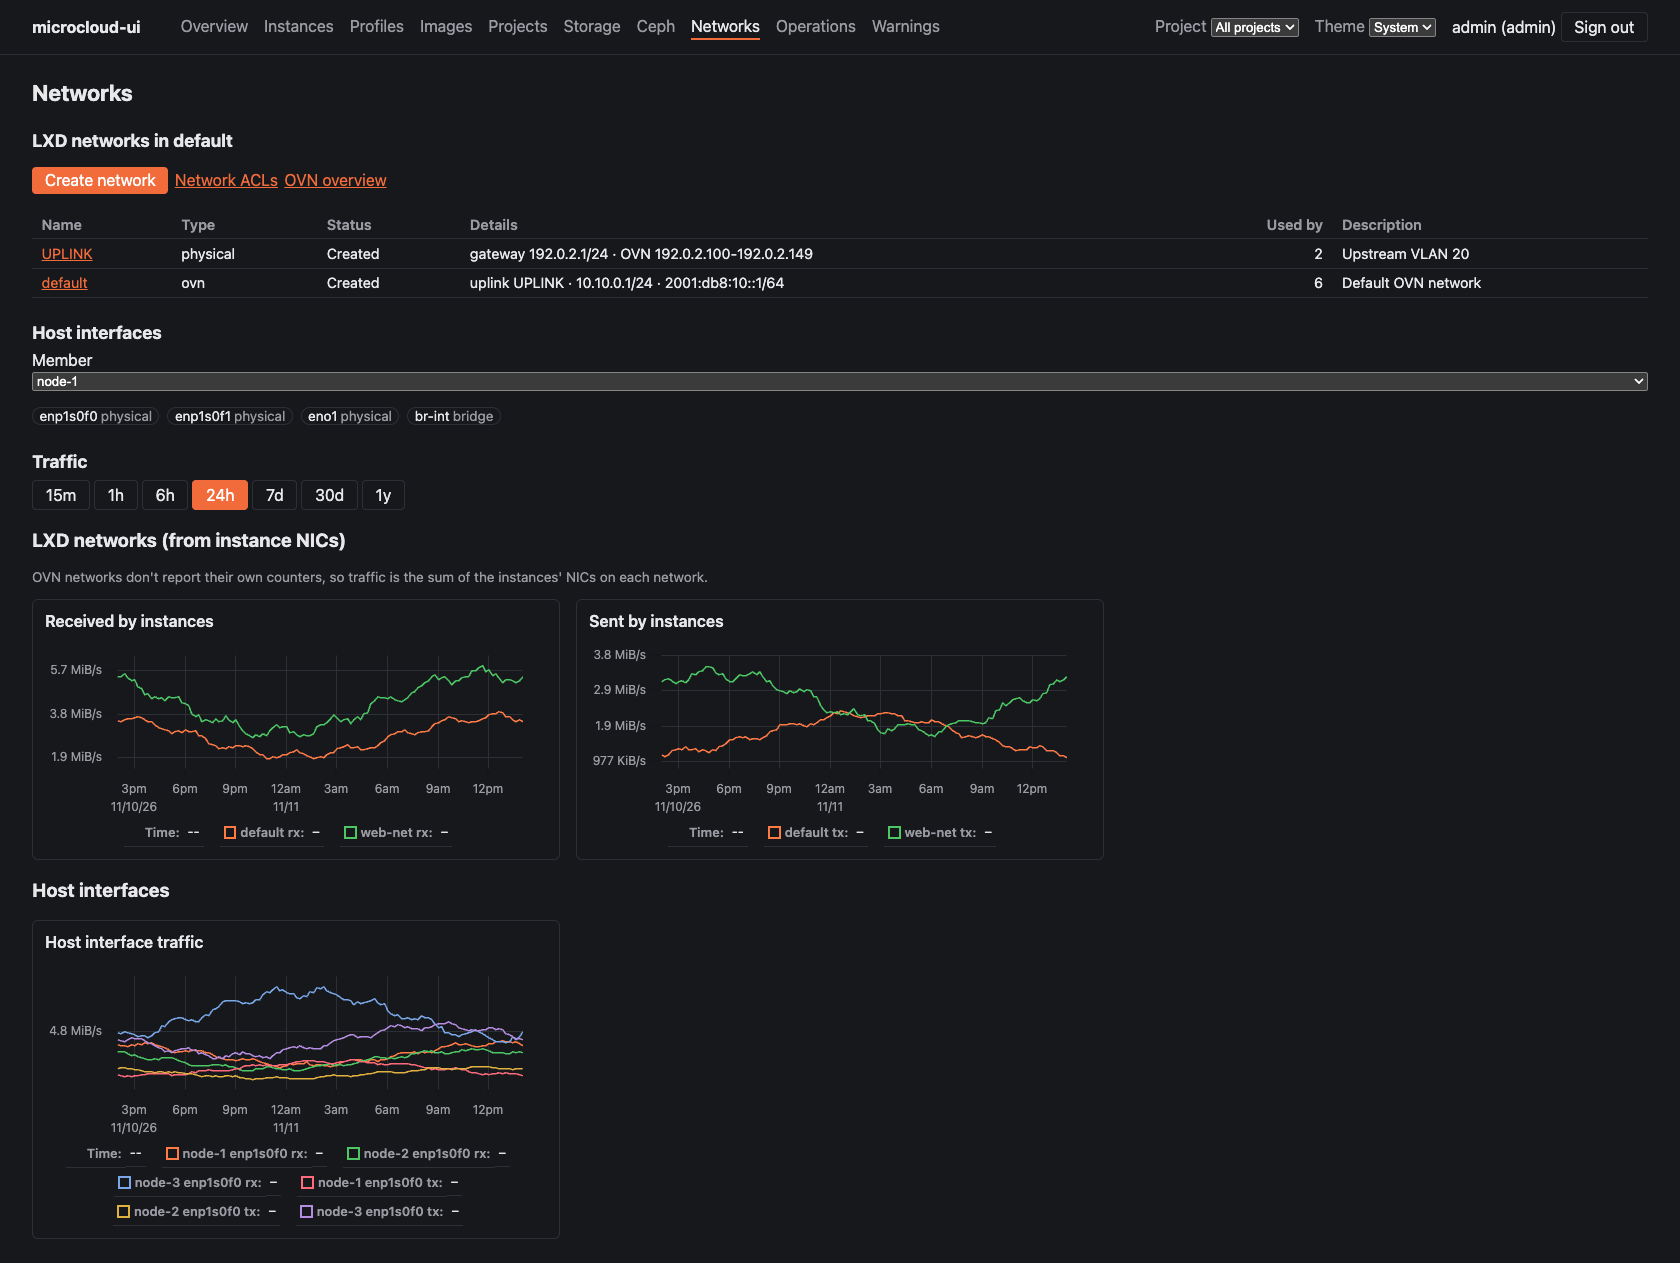
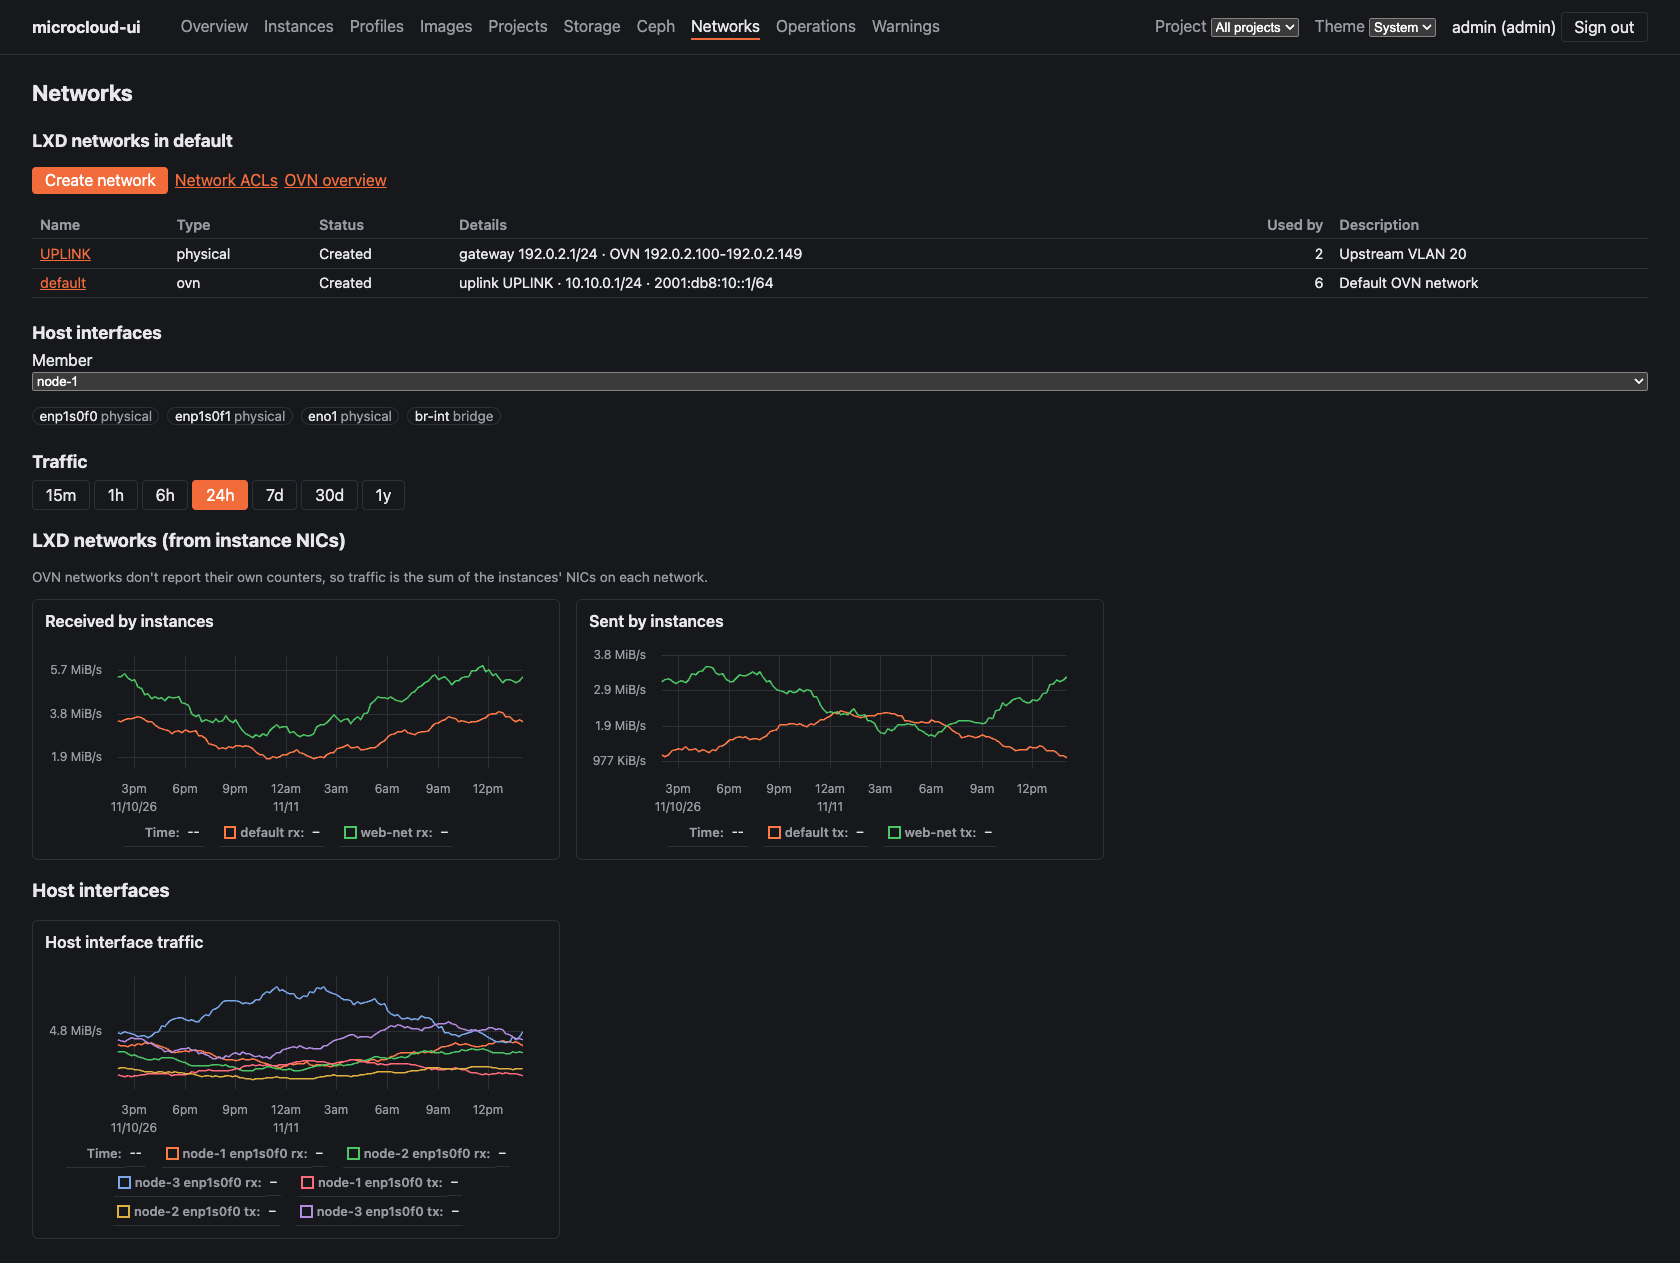
Hosts table fits a 1280px window: secondary details on their own line, shared units written once (formatPair), Net rx / tx, 3rem gauges and 0.5rem cell padding in tables; screenshots regenerated (D70)

diff --git a/frontend/src/pages/hosts.test.tsx b/frontend/src/pages/hosts.test.tsx
@@ -81,28 +81,30 @@ describe("HostsSection", () => {
     renderAt(<HostsSection />);
     const row = (await screen.findByRole("link", { name: "gw-1" })).closest("tr")!;
     expect(within(row).getByRole("meter", { name: "gw-1 CPU" })).toHaveAttribute("value", "42");
-    expect(row).toHaveTextContent("42.0% (iowait 7.0%)");
-    expect(row).toHaveTextContent("8.0 GiB / 32.0 GiB");
+    expect(row).toHaveTextContent("42.0%");
+    expect(within(row).getByText("iowait 7.0%")).toHaveClass("sub"); // its own line
+    expect(row).toHaveTextContent("8.0 / 32.0 GiB");
     expect(row).not.toHaveTextContent("≈");
-    expect(row).toHaveTextContent("1.0 GiB / 4.0 GiB");
+    expect(row).toHaveTextContent("1.0 / 4.0 GiB");
     expect(within(row).getByRole("meter", { name: "gw-1 root filesystem" })).toHaveAttribute("value", "90");
-    expect(row).toHaveTextContent("sda 55.0% busy");
+    expect(within(row).getByText("sda 55.0% busy")).toHaveClass("sub");
     expect(row).toHaveTextContent("4 / 5");
     expect(row).toHaveTextContent("1.50 CPUs, 6.0 GiB");
-    expect(row).toHaveTextContent("12 vCPU / 8 (1.5×), 20.0 GiB / 32.0 GiB + 2 unlimited");
-    expect(row).toHaveTextContent("1.0 KiB/s / 2.0 KiB/s");
+    expect(row).toHaveTextContent("12 vCPU / 8 (1.5×), 20.0 / 32.0 GiB");
+    expect(within(row).getByRole("button", { name: "2 unlimited" }).closest(".sub")).toHaveTextContent("+ 2 unlimited");
+    expect(row).toHaveTextContent("1.0 / 2.0 KiB/s");
 
     const gw2 = screen.getByRole("link", { name: "gw-2" }).closest("tr")!;
     expect(within(gw2).getByRole("meter", { name: "gw-2 load per CPU" })).toHaveAttribute("value", "25");
     expect(gw2).toHaveTextContent("load 2 / 8");
-    expect(gw2).toHaveTextContent("≈22.0 GiB / 32.0 GiB"); // 32 - 8 free - 2 buffers
+    expect(gw2).toHaveTextContent("≈22.0 / 32.0 GiB"); // 32 - 8 free - 2 buffers
     expect(gw2).toHaveTextContent("none"); // no swap
     expect(gw2).toHaveTextContent("4 vCPU / 8,");
     expect(gw2).not.toHaveTextContent("×");
 
     const gw3 = screen.getByRole("link", { name: "gw-3" }).closest("tr")!;
     expect(within(gw3).getByRole("alert")).toHaveTextContent("Offline");
-    expect(gw3).toHaveTextContent("12 vCPU, 20.0 GiB / 32.0 GiB");
+    expect(gw3).toHaveTextContent("12 vCPU, 20.0 / 32.0 GiB");
     expect(screen.getByText("node_exporter on gw-3: HTTP 401: check username/password")).toHaveAttribute("role", "alert");
     expect(screen.getByText(/No node_exporter on gw-2:/)).toHaveTextContent("docs/HOST-METRICS.md");
   });
@@ -117,13 +119,13 @@ describe("HostsSection", () => {
     });
     const a = renderAt(<HostsSection />);
     const row = (await screen.findByRole("link", { name: "gw-1" })).closest("tr")!;
-    expect(row).toHaveTextContent("10.0% (steal 12.0%)");
+    expect(within(row).getByText("steal 12.0%")).toHaveClass("sub");
     expect(row.querySelectorAll("td")[4]).toHaveTextContent(/^$/);
     expect(row.querySelectorAll("td")[3]).toHaveTextContent("none");
     const gw2 = screen.getByRole("link", { name: "gw-2" }).closest("tr")!;
     expect(gw2.querySelectorAll("td")[1]).toHaveTextContent("–"); // no CPU % yet, no load
-    expect(gw2.querySelectorAll("td")[3]).toHaveTextContent("1.0 GiB / 4.0 GiB"); // node swap wins
-    expect(gw2.querySelectorAll("td")[7]).toHaveTextContent("12 vCPU / 8 (1.5×), 0 B + 2 unlimited");
+    expect(gw2.querySelectorAll("td")[3]).toHaveTextContent("1.0 / 4.0 GiB"); // node swap wins
+    expect(gw2.querySelectorAll("td")[7]).toHaveTextContent("12 vCPU / 8 (1.5×), 0 B+ 2 unlimited");
     expect(screen.getByText(/node_exporter are turned off/)).toBeInTheDocument();
     a.unmount();
     vi.spyOn(api, "fetchHosts").mockReturnValue(new Promise(() => {}));

diff --git a/frontend/src/pages/Hosts.tsx b/frontend/src/pages/Hosts.tsx
@@ -1,7 +1,7 @@
 import { useRef, useState } from "react";
 import { Link } from "react-router";
 import { fetchHosts, type Host } from "../api";
-import { formatBytes, formatNumber, formatPercent, formatRate } from "../format";
+import { formatBytes, formatNumber, formatPair, formatPercent, formatRate } from "../format";
 import { useApi } from "../useApi";
 import { HOST_METRICS_DOC, hostMemory } from "./hostValues";
 
@@ -24,7 +24,7 @@ function Cpu({ h }: { h: Host }) {
     return (
       <>
         <Gauge value={n.cpu_percent} label={`${h.name} CPU`} /> {formatPercent(n.cpu_percent)}
-        {extra.length > 0 && <span className="muted"> ({extra.join(", ")})</span>}
+        {extra.length > 0 && <span className="sub">{extra.join(", ")}</span>}
       </>
     );
   }
@@ -42,7 +42,7 @@ function Memory({ h }: { h: Host }) {
   return (
     <>
       <Gauge value={pct(m.used, m.total)} label={`${h.name} memory`} /> {m.estimated ? "≈" : ""}
-      {formatBytes(m.used)} / {formatBytes(m.total)}
+      {formatPair(formatBytes(m.used), formatBytes(m.total))}
     </>
   );
 }
@@ -57,7 +57,7 @@ function Swap({ h }: { h: Host }) {
         ? h.swap_total - h.swap_free
         : null;
   if (!total) return <span className="muted">none</span>;
-  return <>{`${formatBytes(used)} / ${formatBytes(total)}`}</>;
+  return <>{formatPair(formatBytes(used), formatBytes(total))}</>;
 }
 
 function Disk({ h }: { h: Host }) {
@@ -72,9 +72,8 @@ function Disk({ h }: { h: Host }) {
         </>
       ) : null}
       {n.disk_busy_percent != null && (
-        <span className="muted">
-          {" "}
-          · {n.disk_busiest} {formatPercent(n.disk_busy_percent)} busy
+        <span className="sub">
+          {n.disk_busiest} {formatPercent(n.disk_busy_percent)} busy
         </span>
       )}
     </>
@@ -86,15 +85,17 @@ function Allocated({ h, onUnlimited }: { h: Host; onUnlimited: (host: string) =>
   return (
     <>
       {h.allocated_cpus} vCPU{h.cpus ? ` / ${h.cpus}` : ""}
-      {ratio != null && ratio > 1 && <strong> ({ratio.toFixed(1)}×)</strong>}, {formatBytes(h.allocated_memory)}
-      {h.memory_total ? ` / ${formatBytes(h.memory_total)}` : ""}
+      {ratio != null && ratio > 1 && <strong> ({ratio.toFixed(1)}×)</strong>},{" "}
+      {h.memory_total
+        ? formatPair(formatBytes(h.allocated_memory), formatBytes(h.memory_total))
+        : formatBytes(h.allocated_memory)}
       {h.unlimited > 0 && (
-        <>
-          {" + "}
+        <span className="sub">
+          +{" "}
           <button type="button" className="link" onClick={() => onUnlimited(h.name)}>
             {h.unlimited} unlimited
           </button>
-        </>
+        </span>
       )}
     </>
   );
@@ -114,7 +115,7 @@ export function HostsTable({ hosts, onUnlimited }: { hosts: Host[]; onUnlimited:
             <th className="num">Instances</th>
             <th>Instances use</th>
             <th>Allocated (running)</th>
-            <th>Network rx / tx</th>
+            <th>Net rx / tx</th>
           </tr>
         </thead>
         <tbody>
@@ -146,7 +147,7 @@ export function HostsTable({ hosts, onUnlimited }: { hosts: Host[]; onUnlimited:
                 <Allocated h={h} onUnlimited={onUnlimited} />
               </td>
               <td>
-                {formatRate(h.net_rx_bps)} / {formatRate(h.net_tx_bps)}
+                {formatPair(formatRate(h.net_rx_bps), formatRate(h.net_tx_bps))}
               </td>
             </tr>
           ))}

diff --git a/frontend/src/index.css b/frontend/src/index.css
@@ -32,6 +32,8 @@ h1 { font-size: 1.4rem; margin: 0 0 1rem; }
 h2 { font-size: 1.1rem; margin: 1.5rem 0 0.5rem; }
 .topbar { display: flex; justify-content: space-between; align-items: baseline; gap: 1rem; flex-wrap: wrap; }
 .muted { color: var(--muted); font-size: 0.85rem; }
+/* a cell's secondary detail, on its own line under the value */
+.sub { display: block; color: var(--muted); font-size: 0.8rem; }
 [role="alert"] { color: var(--error); }
 button, input { font: inherit; }
 button { padding: 0.3rem 0.8rem; border: 1px solid var(--line); border-radius: 4px; background: transparent; color: inherit; cursor: pointer; }
@@ -43,9 +45,10 @@ input[type="search"] { width: min(24rem, 100%); margin-bottom: 0.5rem; }
 .login label { display: grid; gap: 0.25rem; }
 .scroll { overflow-x: auto; }
 table { border-collapse: collapse; width: 100%; font-size: 0.9rem; }
-th, td { text-align: left; padding: 0.35rem 0.6rem; border-bottom: 1px solid var(--line); white-space: nowrap; }
+th, td { text-align: left; padding: 0.35rem 0.5rem; border-bottom: 1px solid var(--line); white-space: nowrap; }
 th { color: var(--muted); font-weight: 600; }
 td.num { text-align: right; font-variant-numeric: tabular-nums; }
+td meter { width: 3rem; }
 th.num { text-align: right; }
 .topbar { padding: 0.75rem 2rem; border-bottom: 1px solid var(--line); align-items: center; }
 .topbar nav { display: flex; gap: 1rem; flex: 1; margin-left: 1.5rem; flex-wrap: wrap; }

diff --git a/frontend/src/format.test.ts b/frontend/src/format.test.ts
@@ -1,5 +1,5 @@
 import { describe, expect, it } from "vitest";
-import { formatBytes, formatDuration, formatNumber, formatPercent, formatRate } from "./format";
+import { formatBytes, formatDuration, formatNumber, formatPair, formatPercent, formatRate } from "./format";
 
 describe("format", () => {
   it("formats bytes", () => {
@@ -17,6 +17,10 @@ describe("format", () => {
   it("formats rates and percentages", () => {
     expect(formatRate(1024)).toBe("1.0 KiB/s");
     expect(formatRate(null)).toBe("–");
+    expect(formatPair("18.0 GiB", "64.0 GiB")).toBe("18.0 / 64.0 GiB");
+    expect(formatPair("3.0 MiB/s", "1.8 MiB/s")).toBe("3.0 / 1.8 MiB/s");
+    expect(formatPair("102 MiB", "8.0 GiB")).toBe("102 MiB / 8.0 GiB");
+    expect(formatPair("–", "8.0 GiB")).toBe("– / 8.0 GiB");
     expect(formatPercent(23.333)).toBe("23.3%");
     expect(formatPercent(null)).toBe("–");
     expect(formatPercent(Infinity)).toBe("–");

diff --git a/frontend/src/format.ts b/frontend/src/format.ts
@@ -16,6 +16,14 @@ export function formatRate(n: number | null | undefined): string {
   return n == null || !Number.isFinite(n) ? "–" : `${formatBytes(n)}/s`;
 }
 
+/** Two formatted values as "used / total": the unit once when both share it
+ * ("18.0 / 64.0 GiB", "3.0 / 1.8 MiB/s"), otherwise both ("102 MiB / 8.0 GiB"). */
+export function formatPair(a: string, b: string): string {
+  const i = a.lastIndexOf(" ");
+  const j = b.lastIndexOf(" ");
+  return i > 0 && j > 0 && a.slice(i) === b.slice(j) ? `${a.slice(0, i)} / ${b}` : `${a} / ${b}`;
+}
+
 export function formatPercent(n: number | null | undefined): string {
   return n == null || !Number.isFinite(n) ? "–" : `${n.toFixed(1)}%`;
 }

diff --git a/agents.md b/agents.md
@@ -72,6 +72,7 @@ makes or alters a design decision.**
 | D57 | **OVN overview (MO-9) from the LXD API only:** `/api/ovn` lists OVN networks of `default` and of projects with `features.networks` (others borrow default's, which LXD reports again under their name), each with uplink, subnets/NAT, external router address (`volatile.network.ipv*.address`), active gateway chassis (from network state), forward/load-balancer/peer counts (`null` when LXD can't list them), ACLs and allocation counts by type; uplinks (managed physical) with gateway, routes, DNS, BGP peers and how many of `ipv4.ovn.ranges` router addresses are used. The page flags networks not Created, without a gateway chassis, and uplink ranges ≥ 80% used. No OVN northbound/southbound access (that's MO-11, Later) | Everything comes from LXD; no extra credentials or agents. | Accepted 2026-11-11 |
 | D58 | **Host metrics (MO-4, MO-12), brought forward from Phase 5:** an Overview **Hosts** table built from what LXD gives (member state: load, coarse memory, swap; instances: running/total, their CPU and memory use from live metrics; **allocated** vCPUs and memory of running instances from `limits.cpu` (count or pinned set) and `limits.memory` (size or % of host), VMs without limits counted at LXD's 1 vCPU/1 GiB, containers without limits counted as “unlimited”; host NIC rate from history), overlaid with **node_exporter** when a host has it (`/api/hosts`). The collector scrapes `<scheme>://<member host>:9100/metrics` with the LXD scrape (optional TLS with a pinned CA, `server_name`, basic auth from a 0600 password file) and stores only: CPU seconds **summed over CPUs per mode**, memory (total/available/free/cached/buffers/swap, ZFS ARC), filesystems except pseudo/snap mounts, whole host disks (not partitions, dm-*, md, rbd/nbd/zd, loop), pressure (cpu/memory/io waiting, memory/io stalled), oom-kill and swap-in/out counters, clock sync. A host with nothing listening is “not installed”, not an error; auth/TLS failures are errors in the job status and `mcui check` (warnings there, never a failure). CPU % = 100 − idle − iowait − steal (as for instances). Member page shows node graphs when present and LXD's memory estimate otherwise. Install/lock-down: `docs/HOST-METRICS.md` (TLS + basic auth via `--web.config.file`, bind to the management IP; no ufw or stock nftables.conf on MicroCloud hosts) | LXD has no host CPU %, disk or true memory figures; node_exporter is the standard way to get them and stays optional. | Accepted 2026-11-11 |
 | D59 | **Screenshots from an invented demo cluster:** `make screenshots` builds the SPA, serves it with `vite preview` and drives the installed Google Chrome (or `$CHROME_PATH`) through `playwright-core` 1.64.1 (Apache-2.0, dev only; no browser download). Every `/api/*` request is answered from `frontend/screenshots/demo.ts`: three hosts `node-1..3` on 192.0.2.0/24 and 2001:db8::/32, made-up instances/projects/pools/Ceph/OVN, and smooth deterministic metric history (fixed clock, UTC). The demo is typed against `src/api.ts`, and a test checks every metric the shown pages query has data, that unknown paths are refused and that only documentation/private addresses appear. Never screenshot a real cluster for the repo | Shareable, reproducible images with nothing about the owner's network; regenerate whenever the UI changes. | Accepted 2026-11-11 |
+| D70 | **Hosts table fits a laptop screen:** it needed 1662px (overflowing below ~1730px wide). Now: secondary details on their own muted line (`.sub`: CPU iowait/steal, disk busy, "+ N unlimited"); a shared unit written once (`formatPair`: `18.0 / 64.0 GiB`, `3.0 / 1.8 MiB/s`; both units when they differ); "Net rx / tx" as in the Instances table; gauges in table cells 3rem wide (`td meter`, browser default ~80px); cell padding 0.5rem (was 0.6rem) in every table. Measured with headless Chrome on the demo cluster: 1216px, fits a 1280px window; host names much longer than `node-1` need ~1360px. `.scroll` still scrolls anything narrower | The owner wanted the whole table visible on a larger screen; details that only appear sometimes shouldn't set the width of every row. | Accepted 2026-11-12 |
 | D69 | **Numeric table columns are right-aligned, header included:** `td.num` (right, tabular figures) needs a matching `th.num`. Before this, 36 headers stayed left while their values sat right, so on wide screens titles drifted far from their numbers (owner noticed in Safari; every browser does it). `src/test/numericColumns.ts` runs after every frontend test (in `setupTests.ts`) and fails it if a rendered table has a `td.num` column whose header lacks `num` | Numbers compare best right-aligned; the header must follow its column. A check on every rendered table catches new columns without a per-page test. | Accepted 2026-11-12 |
 | D68 | **Edge channel (tip of `main`):** `release.yml` also runs on `workflow_run` of CI, for runs that passed on a **push** to this repository's `main` only (not PRs, not forks). It builds that commit (`head_sha`) the same way as a release, stamped `X.Y.Z.devN` (N = commits since the last `v*` tag, `scripts/build_version.py dev`; the source keeps `.dev0`), and publishes `ghcr.io/moon127/microcloud-ui:edge` + `:edge-<sha7>` and a rolling GitHub pre-release `edge` (tag force-moved via the API, `--latest=false`, old bundles replaced). CI isn't re-run for edge; a newer push cancels a running edge build (`concurrency`). One workflow with modes `release` / `edge` / `dry-run` decided in a `setup` job; downstream jobs use `!cancelled()` conditions because `ci` is skipped for edge. Release notes start from the previous `v*` tag (`--notes-start-tag`) so the edge pre-release never becomes their base. Old `edge-<sha>` images aren't pruned automatically (deleting by digest risks breaking multi-arch indexes) | Owner: anyone following development gets a bundle or image of the tip of `main`; built on every push (not nightly), named edge so `latest` stays release-only. devN is unique on a linear `main` and is a valid PEP 440 and filename-safe version. | Accepted 2026-11-12 |
 | D67 | **Releases:** pushing a tag `vX.Y.Z` runs `release.yml`: CI (`ci.yml` via `workflow_call`), then `scripts/build_version.py release` (tag must be exactly `v` + `mcui.__version__`, final X.Y.Z only), then the image for linux/amd64 + linux/arm64 pushed to **GHCR only** (`ghcr.io/moon127/microcloud-ui`: `X.Y.Z`, `X.Y`, `latest`). Each platform builds on a **native runner** (`ubuntu-24.04`, `ubuntu-24.04-arm`, free as the repository is public) and is pushed by digest; a merge job joins them with `imagetools create`. Emulated arm64 (QEMU) was tried first in a throwaway VM: apt and Python byte-compiling alone took 15+ minutes. The SPA stage stays on `$BUILDPLATFORM` for local cross-builds, then a GitHub Release with the four offline bundles (py3.12/py3.10 × x86_64/aarch64). A hand-run (`workflow_dispatch`) is a dry run: builds everything, pushes nothing. Found on the way: `pip download --python-version` judges markers by the running Python, so 3.10 bundles lacked `tomli`; `bundle.sh` now names it (test keeps it in step with pyproject) | GHCR needs no extra account or secret (`GITHUB_TOKEN`); the owner chose it over Docker Hub. Tag-equals-version keeps image tags, bundle names and `mcui --version` in agreement. | Accepted 2026-11-12 |
@@ -203,6 +204,7 @@ Statuses: *Proposed* → *Accepted* once the owner confirms; *Superseded by Dn* 
   43240796585): CI, both images natively (arm64 on an aarch64 runner, 97 s, `push=false`),
   four bundles. amd64 image also run-tested in a throwaway VM (health, uid 8843,
   healthcheck).
+- **Hosts table compacted to fit 1280px windows 2026-11-12 (D70).**
 - **Table headers aligned with numeric columns 2026-11-12 (D69);** screenshots for the
   affected pages regenerated.
 - **Edge channel 2026-11-12 (D68):** every push to `main` that passes CI publishes
